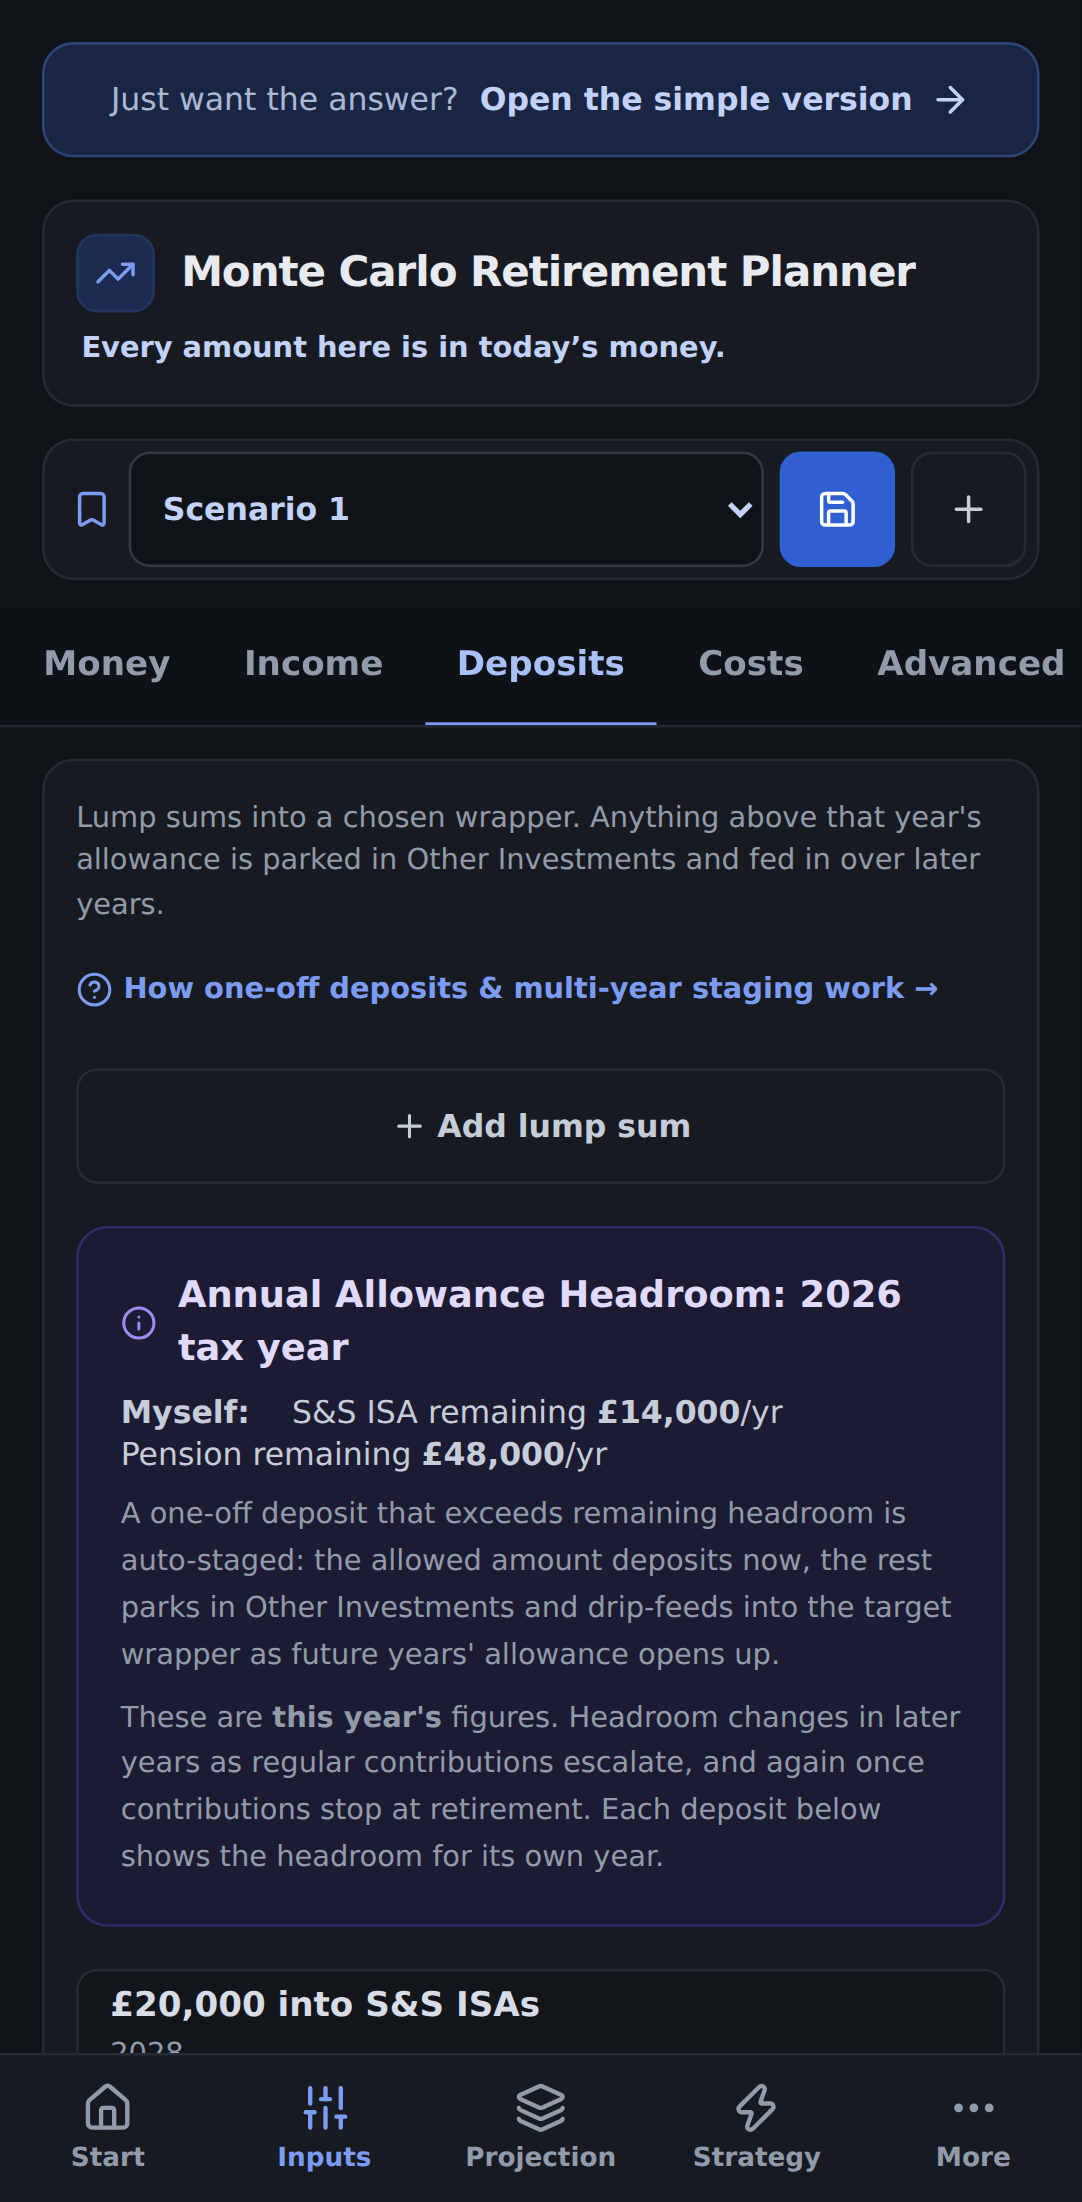
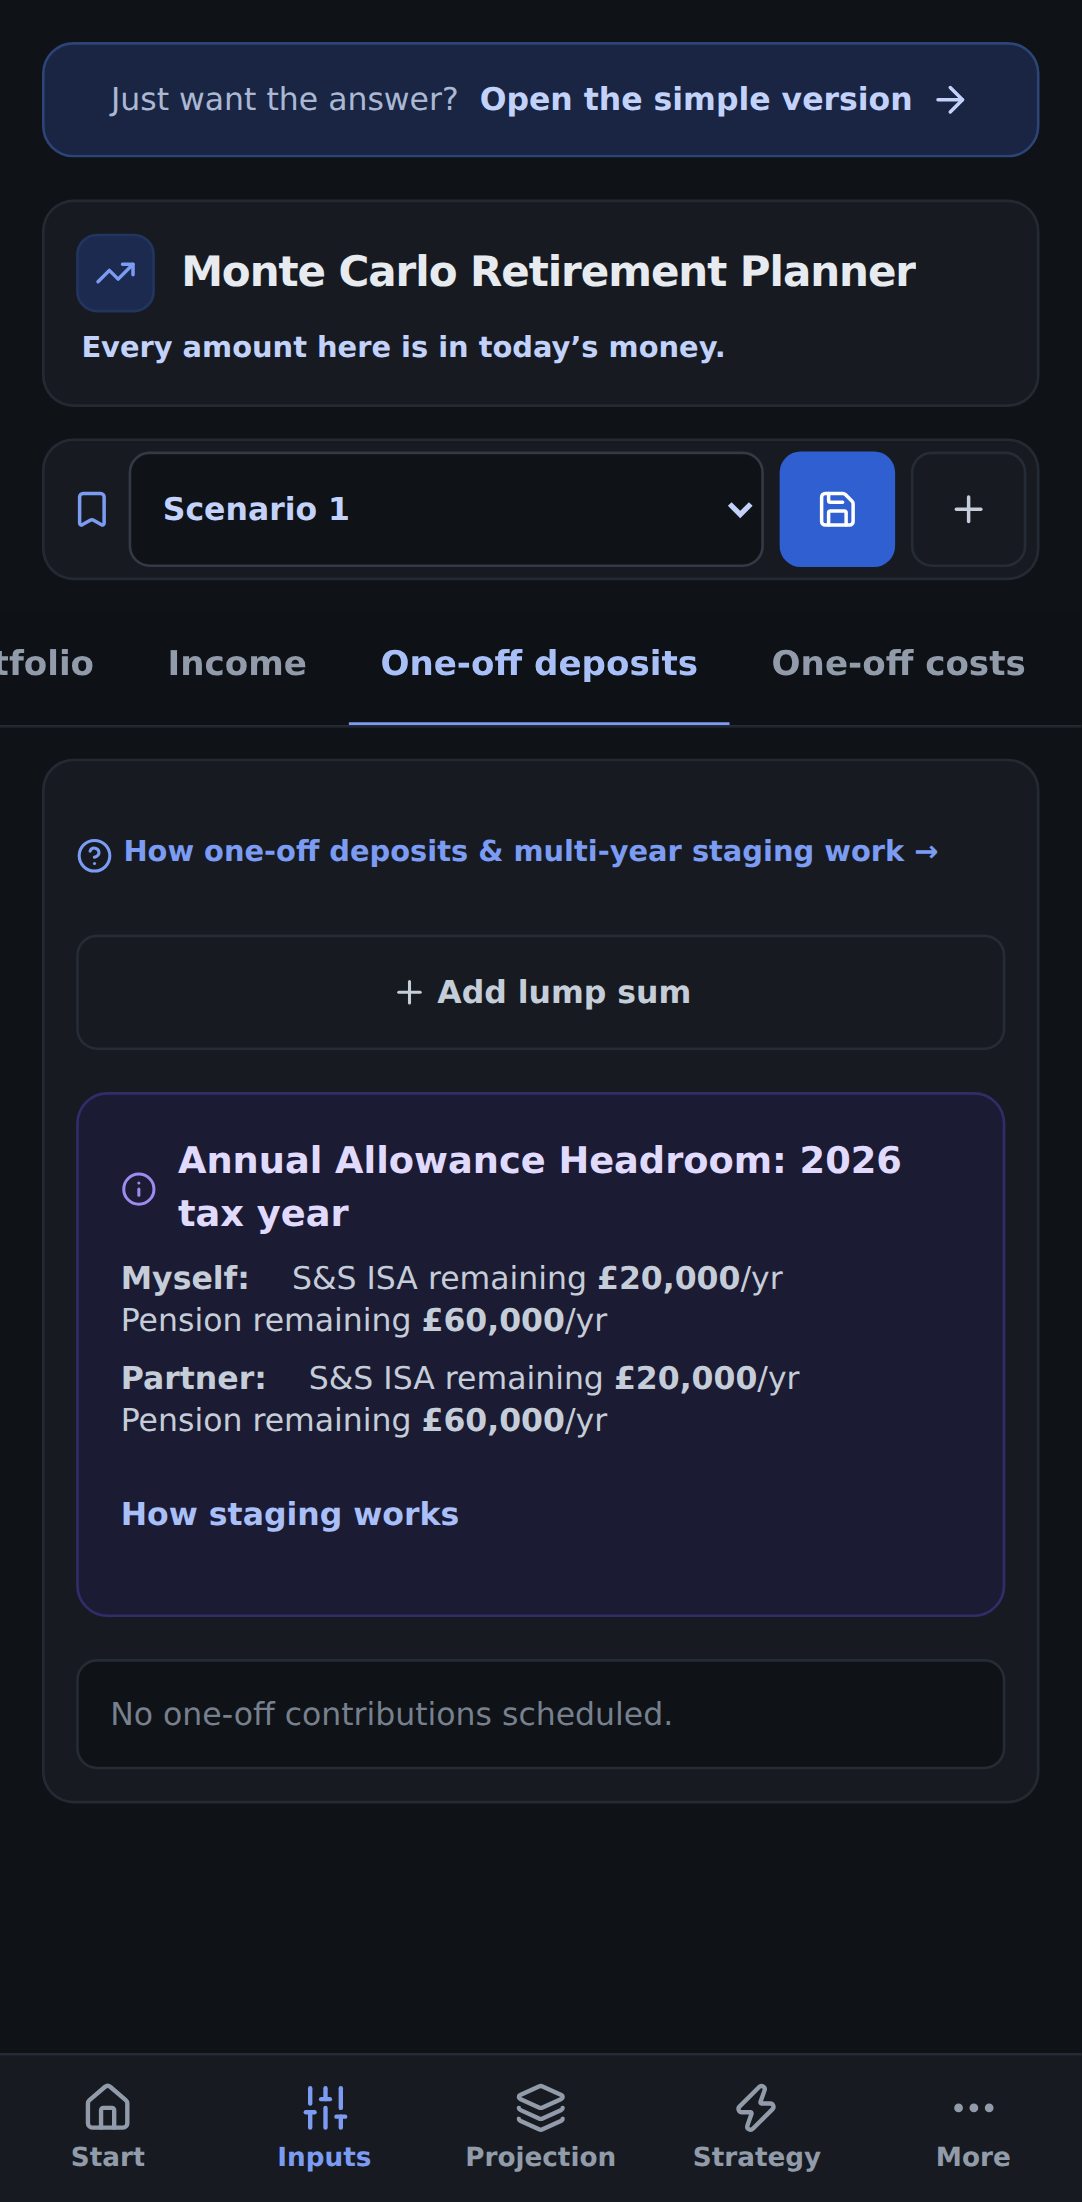
The two one-off sections say so on the phone tab row
On a desktop the numbered heading carries it - "4. One-off deposits (by
wrapper)", "5. One-off capital costs" - and on a phone that heading IS the tab,
so a bare "Deposits" sat beside "Income" with nothing to say which was the
recurring one and which the lump sum. They now read "One-off deposits" and
"One-off costs". The row scrolls, which is what a scrollable tab row is for, and
the active tab is scrolled into view on every change.

Income keeps its name, deliberately: those are streams with a start age and an
end age, so calling them one-off would be wrong about the thing rather than
merely terse.

Claude-Session: https://claude.ai/code/session_01TaQoktosoWkMDM62bLjogz

diff --git a/src/App.jsx b/src/App.jsx
@@ -5963,9 +5963,15 @@ const visibleTabs = () => TABS.filter(t => !t.enabled || t.enabled());
 const INPUT_SECTIONS = [
   { id: 'you',      short: 'You',      title: 'Demographics, salaries & retirement targets' },
   { id: 'money',    short: 'Portfolio', title: 'Current balances, annual contributions & risk profiles' },
+  /*
+   * The two one-off sections say so in their labels. On a desktop the numbered heading carries that -
+   * "4. One-off deposits (by wrapper)" - and on a phone that heading is the tab, so a bare "Deposits"
+   * sat next to "Income" with nothing to tell you which was the recurring one. Income keeps its name
+   * because it is NOT one-off: those are streams with a start and an end age.
+   */
   { id: 'income',   short: 'Income',   title: 'Expected other income streams' },
-  { id: 'deposits', short: 'Deposits', title: 'One-off deposits' },
-  { id: 'costs',    short: 'Costs',    title: 'One-off capital costs' },
+  { id: 'deposits', short: 'One-off deposits', title: 'One-off deposits' },
+  { id: 'costs',    short: 'One-off costs',    title: 'One-off capital costs' },
   { id: 'advanced', short: 'Advanced', title: 'Advanced inputs' },
 ];
 const INPUT_SECTION_KEY = 'rp_input_section';
